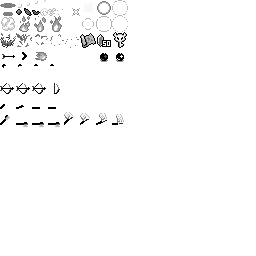
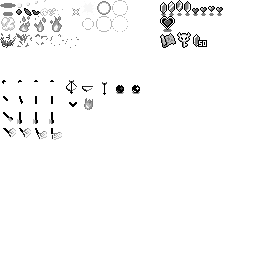
moved rupee, heart, heart piece sprites into ProjectilesSheet from DungeonSheet. repacked ProjectileSheet. updated GameObjAnimListManager to reflect new packing for various objs. playtested, working.

diff --git a/DungeonRun/Classes/GameObjectAnimListManager.cs b/DungeonRun/Classes/GameObjectAnimListManager.cs
@@ -136,9 +136,9 @@ namespace DungeonRun
                 #region Items
 
                 //ItemRupee
-                new List<Byte4> { new Byte4(1, 7, 0, 0), new Byte4(1, 7, 0, 0), new Byte4(2, 7, 0, 0), new Byte4(3, 7, 0, 0) },
+                new List<Byte4> { new Byte4(20, 0, 0, 0), new Byte4(21, 0, 0, 0), new Byte4(22, 0, 0, 0), new Byte4(23, 0, 0, 0) },
                 //ItemHeart
-                new List<Byte4> { new Byte4(4, 7, 0, 0), new Byte4(5, 7, 0, 0), new Byte4(6, 7, 0, 0), new Byte4(7, 7, 0, 0) },
+                new List<Byte4> { new Byte4(24, 0, 0, 0), new Byte4(25, 0, 0, 0), new Byte4(26, 0, 0, 0), new Byte4(27, 0, 0, 0) },
 
                 #endregion
 
@@ -146,7 +146,7 @@ namespace DungeonRun
                 #region Projectiles
 
                 //ProjectileSword
-                new List<Byte4> { new Byte4(0, 4, 0, 0), new Byte4(1, 4, 0, 0), new Byte4(2, 4, 0, 0), new Byte4(3, 4, 0, 0) },
+                new List<Byte4> { new Byte4(0, 5, 0, 0), new Byte4(1, 5, 0, 0), new Byte4(2, 5, 0, 0), new Byte4(3, 5, 0, 0) },
 
                 #endregion
 
@@ -163,11 +163,11 @@ namespace DungeonRun
                 new List<Byte4> { new Byte4(8, 1, 0, 0), new Byte4(9, 1, 0, 0) },
 
                 //ParticleReward50Gold
-                new List<Byte4> { new Byte4(6, 2, 0, 0) },
+                new List<Byte4> { new Byte4(12, 2, 0, 0) },
                 //ParticleRewardKey,
-                new List<Byte4> { new Byte4(7, 2, 0, 0) },
+                new List<Byte4> { new Byte4(11, 2, 0, 0) },
                 //ParticleRewardMap,
-                new List<Byte4> { new Byte4(5, 2, 0, 0) },
+                new List<Byte4> { new Byte4(10, 2, 0, 0) },
 
                 #endregion
 
